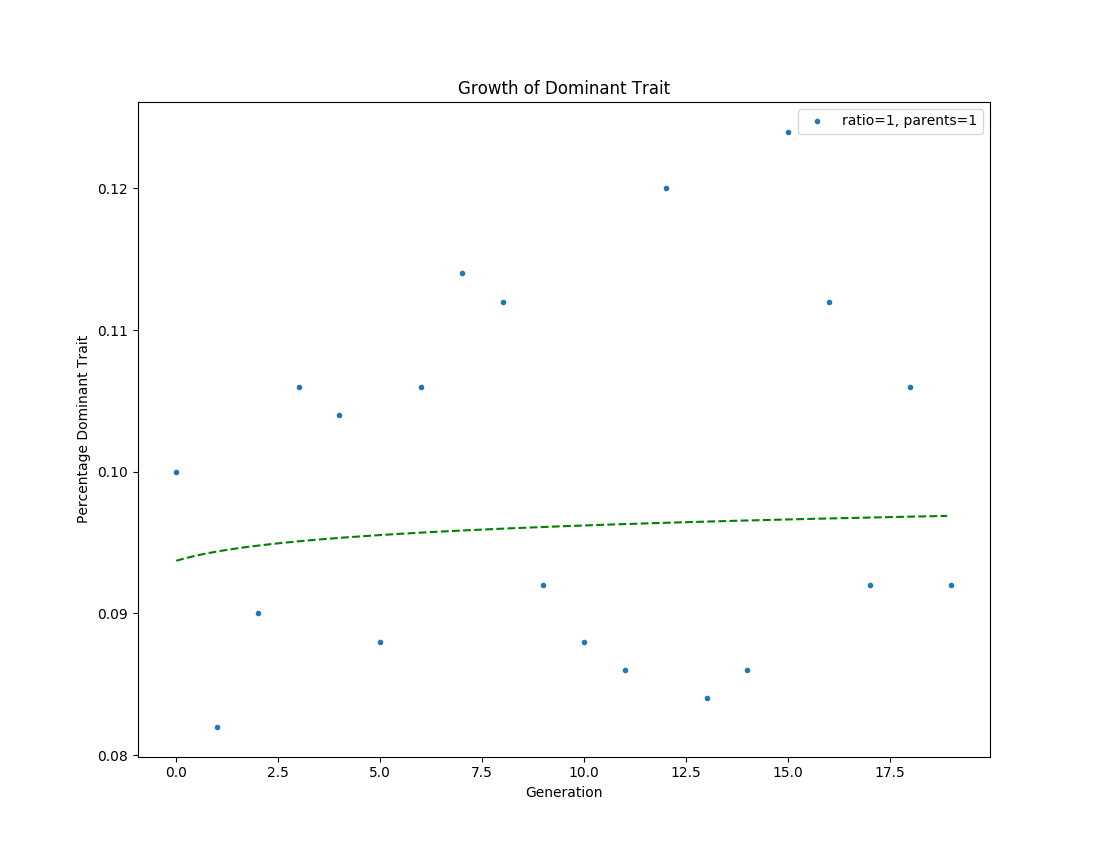
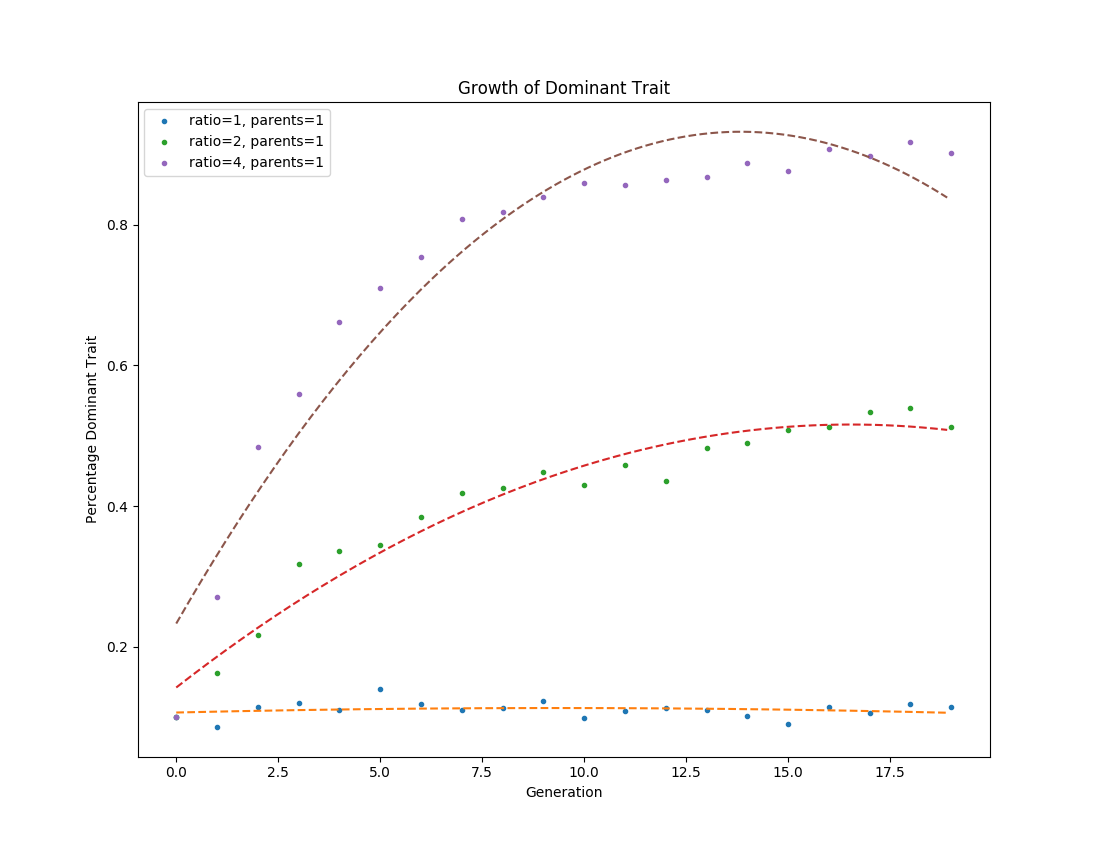
setup for percents test.
Starting tests tonight!

diff --git a/percents_testing.py b/percents_testing.py
@@ -9,9 +9,9 @@ from mpl_toolkits.mplot3d import Axes3D
 import matplotlib.patches as mpatches
 import matplotlib.pyplot as plt
 
-tests = 50
+tests = 10
 generations = 20
-generations_sizes = 10
+generations_sizes = 1000
 a = 0
 p = 0
 t = 1
@@ -26,7 +26,7 @@ gi.set_parameters({
     'generations': generations,
     'generations_sizes': generations_sizes,
     'balanced': False,
-    'initial_counts': [1,10]
+    'initial_counts': [1,generations_sizes]
 })
 
 # calculate data

diff --git a/genealogy_inspector.py b/genealogy_inspector.py
@@ -177,7 +177,7 @@ def plot_percents(parents,ratio,label=None,title=None,xlabel=None,ylabel=None):
 
     xs = np.arange(min(xs),max(xs),0.1)
     ys = [fit_fn(xi) for xi in xs]
-    plt.plot(xs,ys,'--g')
+    plt.plot(xs,ys,'--')
 
 def plot_percents_range(parents_range,ratio_range):
     for parents in parents_range:

diff --git a/parents_testing.py b/parents_testing.py
@@ -9,7 +9,7 @@ from mpl_toolkits.mplot3d import Axes3D
 import matplotlib.patches as mpatches
 import matplotlib.pyplot as plt
 
-tests = 50
+tests = 100
 generations = 2
 generations_sizes = 10
 a = 0
